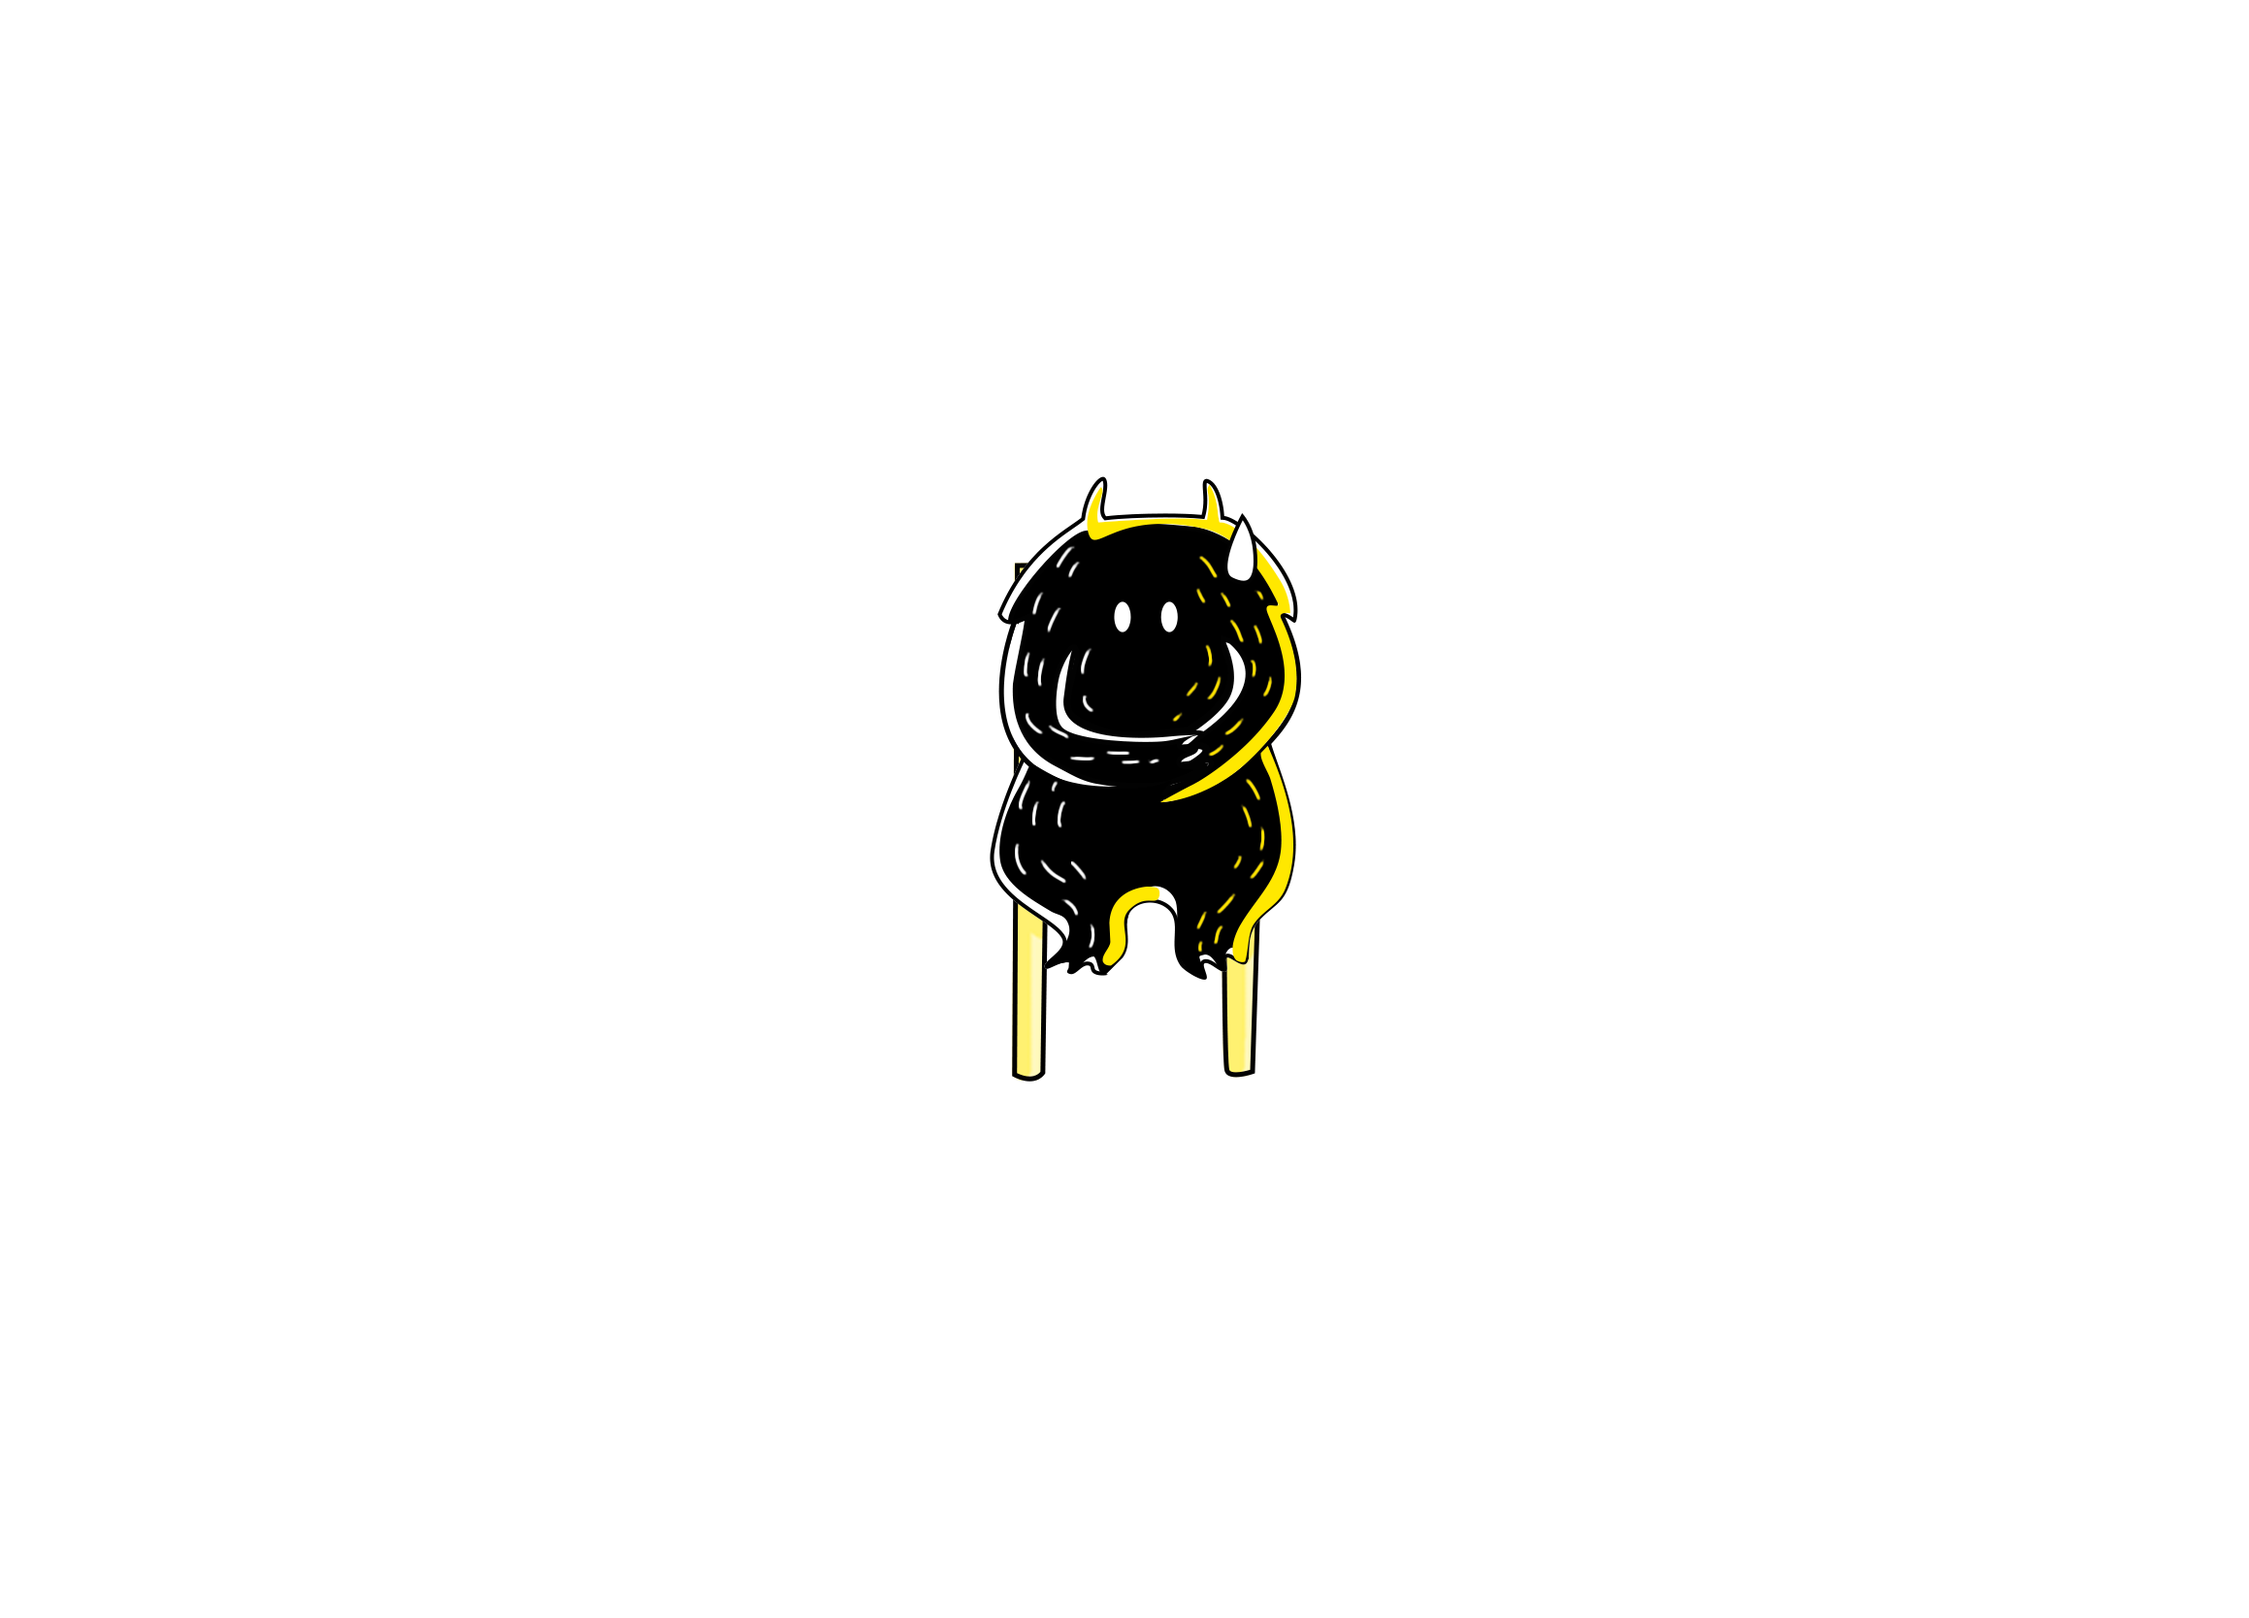
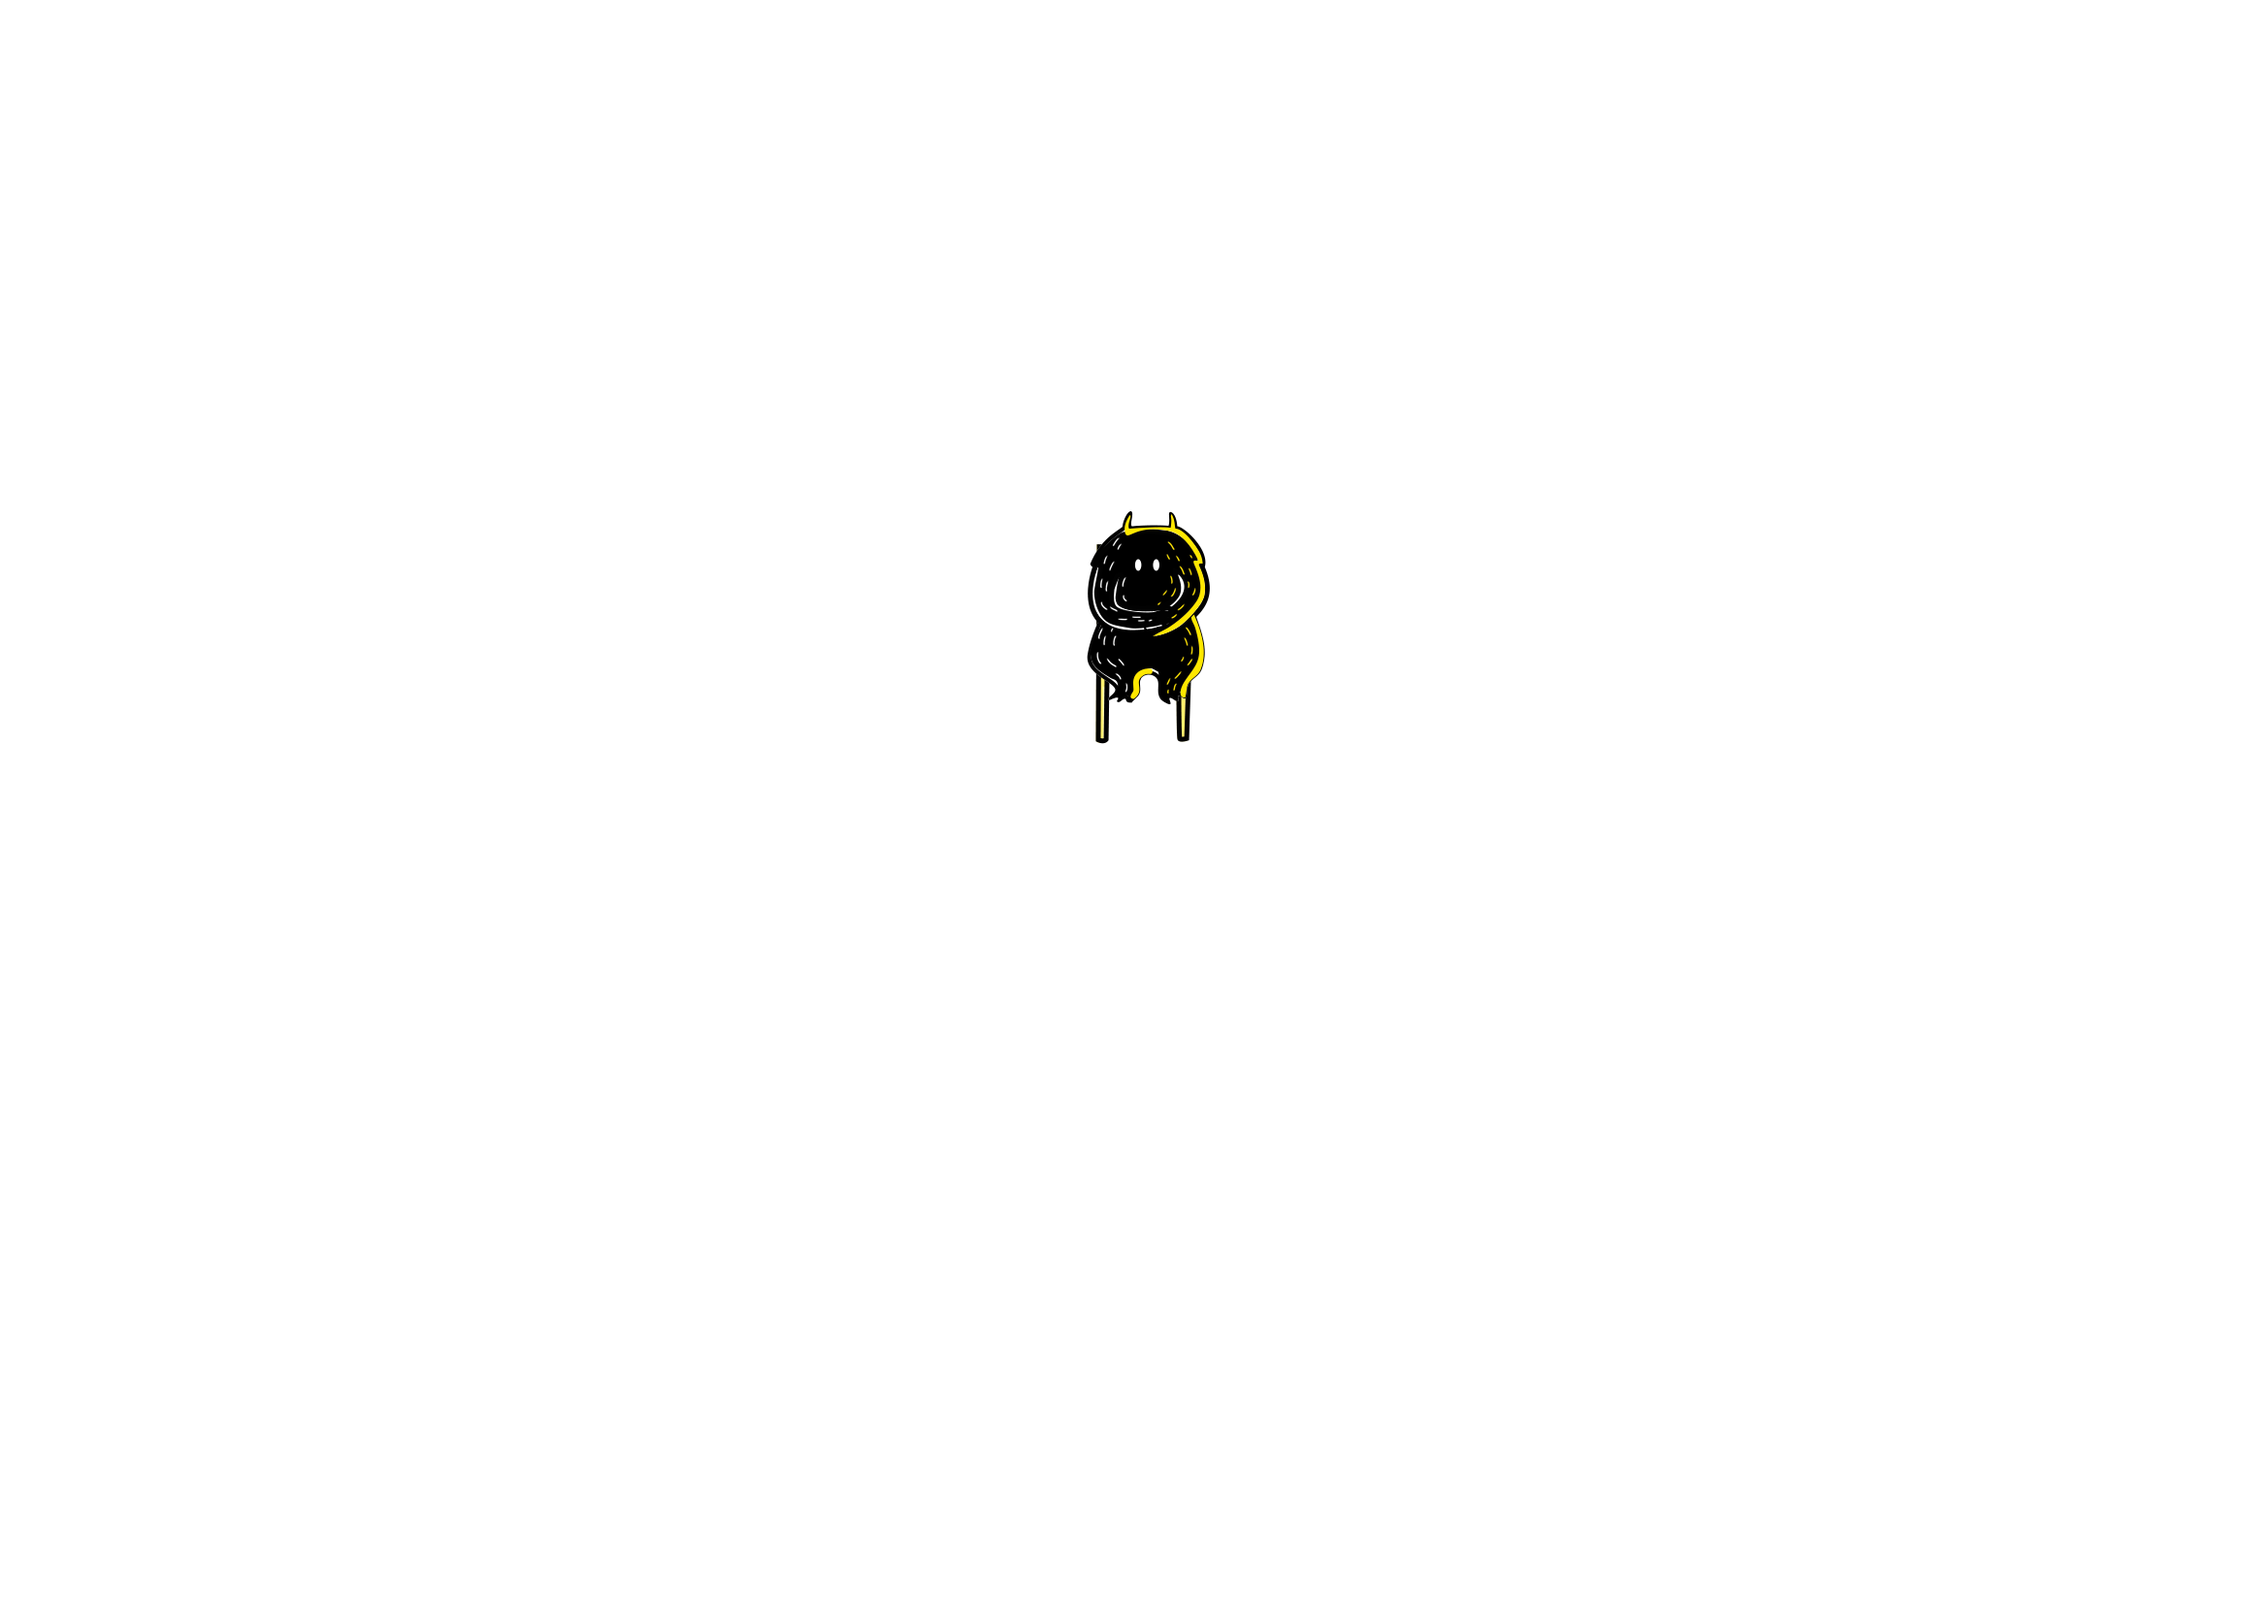
wip replay classroom scene

Changed region(s): [[0.4349, 0.2806, 0.5902, 0.6859]]

diff --git a/src/configs/scenes/replayClassroomSceneConfig.js b/src/configs/scenes/replayClassroomSceneConfig.js
@@ -1,4 +1,6 @@
 import TweenMax from 'gsap';
+import TimelineMax from 'gsap/TimelineMax';
+
 
 import anchor from '../../constants/anchor';
 import {frameNumberReplayClass} from '../../stores/frameStore';
@@ -8,9 +10,10 @@ import Classroom from '../../components/frames/replay-classroom/Classroom.svelte
 import StomachSound from '../../components/frames/replay-classroom/StomachSound.svelte';
 import Alone from '../../components/frames/replay-classroom/Alone.svelte';
 import ClassroomDezoom from '../../components/frames/replay-classroom/ClassroomDezoom.svelte';
+import {Howl} from "howler";
 
 export default [
-    {
+    /*{
         id: 'classroom',
         x: 50,
         y: 40,
@@ -53,7 +56,7 @@ export default [
                 TweenMax.to(el, 1, {autoAlpha: 1, delay: 1});
             })
         }
-    },
+    },*/
 
     {
         id: 'alone',
@@ -61,14 +64,30 @@ export default [
         y: 50,
         anchor: anchor.center,
         square: true,
-        width: 35,
-        height: 35,
+        width: 100,
+        height: 100,
+        content: Alone,
         callback: id => {
             const el = document.getElementById(id);
             Object.assign(el.style, {
                 opacity: 0,
                 visibility: 'hidden',
-            })
+                zIndex: 1,
+                backgroundColor: 'white',
+                border: 0,
+                borderImage: 'none',
+                webkitBorderImage: 'none',
+            });
+            frameNumberReplayClass.subscribe(value => {
+                if(value !== 0) return;
+                //const classroom = document.getElementById('classroom');
+                //const stomach = document.getElementById('stomach-sound');
+
+                const tl = new TimelineMax();
+                //tl.to(classroom, .1, {autoAlpha: 0}, 2);
+                //tl.to(stomach, .1, {autoAlpha: 0}, 2);
+                tl.to(el, 1, {autoAlpha: 1});
+            });
         }
     },
 
@@ -77,14 +96,25 @@ export default [
         x: 50,
         y: 50,
         anchor: anchor.center,
-        width: 70,
-        height: 70,
+        width: 100,
+        height: 100,
+        content: ClassroomDezoom,
         callback: id => {
             const el = document.getElementById(id);
             Object.assign(el.style, {
                 opacity: 0,
                 visibility: 'hidden',
-            })
+                zIndex: 2,
+                border: 0,
+                backgroundImage: 'none',
+                webkitBorderImage: 'none',
+            });
+            frameNumberReplayClass.subscribe(value => {
+               if(value !== 1) return;
+               TweenMax.to(el, 1, {autoAlpha: 1, onComplete: () => {
+                   frameNumberReplayClass.update(n => n + 1);
+               }});
+            });
         }
     },
 

diff --git a/src/components/frames/replay-classroom/Alone.svelte b/src/components/frames/replay-classroom/Alone.svelte
@@ -1,0 +1,58 @@
+<script>
+    import TweenMax from 'gsap';
+    import TimelineMax from 'gsap/TimelineMax';
+    import {onMount} from 'svelte';
+    import Hammer from 'hammerjs';
+
+    import {frameNumberReplayClass} from '../../../stores/frameStore';
+
+    onMount(() => {
+        const alone = document.getElementById('alone');
+        const hammer = new Hammer(alone);
+
+        // Pinchout indication
+        const tl = new TimelineMax({repeat: -1, repeatDelay: 1});
+        tl.from('#circle1', 1, {y: '-=150px', opacity: .5}, 0);
+        tl.from('#circle2', 1, {y: '+=150px', opacity: .5}, 0);
+
+        hammer.get('pinch').set({ enable: true });
+        hammer.on('pinchend', e => {
+            if(e.additionalEvent === 'pinchout') return;
+            TweenMax.to(alone, .5, {scale: .7});
+            console.log('test');
+            frameNumberReplayClass.update(n => n + 1);
+        });
+    });
+</script>
+
+<style>
+    .frame-container{
+        width: 100%;
+        height: 100%;
+        background-image: url("./assets/png/replay-class/S10-Alone-Monster.png");
+        background-repeat: no-repeat;
+        background-position: center center;
+        position: relative;
+    }
+    .circle-container{
+        transform: rotate(45deg);
+        position: absolute;
+        top: 33%;
+        left: 50%;
+
+    }
+    .circle{
+        width: 50px;
+        height: 50px;
+        border-radius: 100%;
+        background-color: #9FBBFF;
+        opacity: 0;
+    }
+</style>
+
+<div id="alone" class="frame-container" style="background-size: 180%;">
+    <div class="circle-container">
+        <div id="circle1" class="circle"></div>
+        <div id="circle2" class="circle"></div>
+    </div>
+</div>

diff --git a/src/components/frames/bus/BusCellPhone.svelte b/src/components/frames/bus/BusCellPhone.svelte
@@ -50,9 +50,9 @@
                 TweenMax.to('#scene2-frame2, #scene2-frame3, #scene2-frame4', 1, {autoAlpha: 0, delay: 1});
                 TweenMax.to('#phone, #phone-hitbox, #hand, #navbar, #social-media-feed', 0, {autoAlpha: 0, delay: 1});
                 TweenMax.to('.scene-container', 4, {height: "100vh", delay: 1});
-                TweenMax.to(frame, 0, {backgroundImage: 'url("./assets/png/bus/S2_Feed5.png")', backgroundRepeat: 'no-repeat', backgroundPosition: 'center', backgroundSize: '100%', delay: 1});
+                TweenMax.to(frame, 0, {backgroundImage: 'url(./assets/png/bus/S2_Feed5.png)', backgroundRepeat: 'no-repeat', backgroundPosition: 'center', backgroundSize: '100%', delay: 1});
                 TweenMax.to(frame, 1, {position: 'absolute', left: `calc(50% - ${width / 2}px)`, top: `calc(50% - ${height / 2}px)`, delay: 3});
-                TweenMax.to(frame, 1, {backgroundImage: 'url("./assets/png/bus/S2_Pool.png")', delay: 4});
+                TweenMax.to(frame, 1, {backgroundImage: 'url(./assets/png/bus/S2_Pool.png)', delay: 4});
                 TweenMax.to(frame, 1, {transformOrigin: 'center', scale: 2,  delay: 5});
             }
         }
@@ -120,11 +120,13 @@
         flex-direction: column;
         justify-content: space-between;
         transform: translate(0);
+        height: auto;
     }
 
     .publication {
         border: 3px solid black;
         width: 100%;
+        height: auto;
     }
 
     #social-media-feed img:first-of-type:not(.like) {

diff --git a/src/configs/scenesConfig.js b/src/configs/scenesConfig.js
@@ -25,7 +25,8 @@ import replayClassroomSceneConfig from './scenes/replayClassroomSceneConfig';
 import endSCeneConfig from './scenes/endSceneConfig';
 
 export default [
-    /*{
+/*
+    {
         id: 'homepage-scene',
         config: homePageConfig,
         sequence: 0,
@@ -52,9 +53,9 @@ export default [
     {
         id: 'bus-scene',
         config: busSceneConfig,
-        sequence: 4,
+        sequence: 0,
     },
-
+/*
     {
         id: 'swimming-pool-scene',
         config: poolSceneConfig,
@@ -185,17 +186,18 @@ export default [
         id: 'replay-playtime',
         config: replayPlaytimeSceneConfig,
         sequence: 10,
-    },*/
-
+    },
+*/
     {
         id: 'replay-classroom',
         config: replayClassroomSceneConfig,
         sequence: 0,
-    },/*
-
+    },
+/*
     {
         id: 'end-scene',
         config: endSCeneConfig,
         sequence: 11,
-    }*/
+    }
+*/
 ]

diff --git a/src/components/frames/replay-classroom/StomachSound.svelte b/src/components/frames/replay-classroom/StomachSound.svelte
@@ -2,12 +2,18 @@
     import {onMount} from 'svelte';
     import TweenMax from 'gsap';
 
+
+    import {frameNumberReplayClass} from '../../../stores/frameStore';
+
     onMount(() => {
         const stomach = document.getElementById('stomach');
         const src = './assets/gif/replay-classroom/stomach2.gif';
-        TweenMax.to(stomach, .2, {backgroundImage: 'url('+src+')', delay: 2.5, onComplete: () => {
 
-        }});
+        TweenMax.to(stomach, .2, {backgroundImage: 'url('+src+')', delay: 2.5,
+            onComplete: () => {
+                frameNumberReplayClass.update(n => n + 1);
+            },
+        });
 
     })
 </script>

diff --git a/src/configs/scenes/busSceneConfig.js b/src/configs/scenes/busSceneConfig.js
@@ -85,13 +85,13 @@ export default [
             frameNumberBus.subscribe(value => {
                 value === 3 ? TweenMax.to(el, 1, {autoAlpha: 1, delay: 21, onComplete: () => {
                     setTimeout(() => {
-                        activeSceneNb.update(n => n + 1);
+                        frameNumberBus.update(n => n + 1);
                     }, 4000)
                 }}) : null;
             });
         }
     },
-    /*
+
     {
         id: 'scene2-frame5',
         x: 100,
@@ -110,5 +110,5 @@ export default [
                 zIndex: '1'
             });
         }
-    },*/
+    },
 ];

diff --git a/src/components/frames/replay-classroom/ClassroomDezoom.svelte b/src/components/frames/replay-classroom/ClassroomDezoom.svelte
@@ -1,0 +1,16 @@
+<script></script>
+
+<style>
+    .frame-container{
+        width: 100%;
+        height: 100%;
+        background-image: url("./assets/png/replay-class/S10-Dezoom-Class.png");
+        background-repeat: no-repeat;
+        background-position: center center;
+        background-size: 120%;
+    }
+</style>
+
+<div class="frame-container">
+
+</div>
